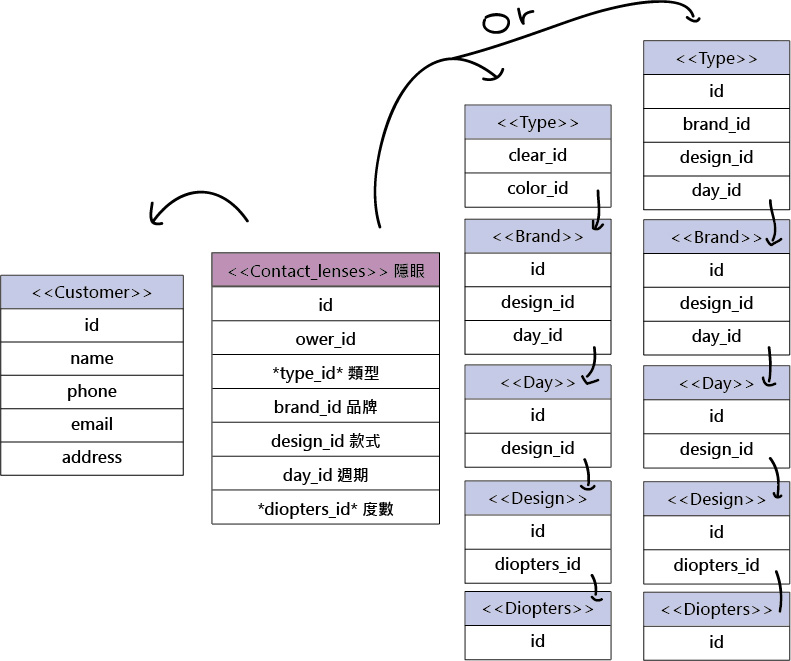
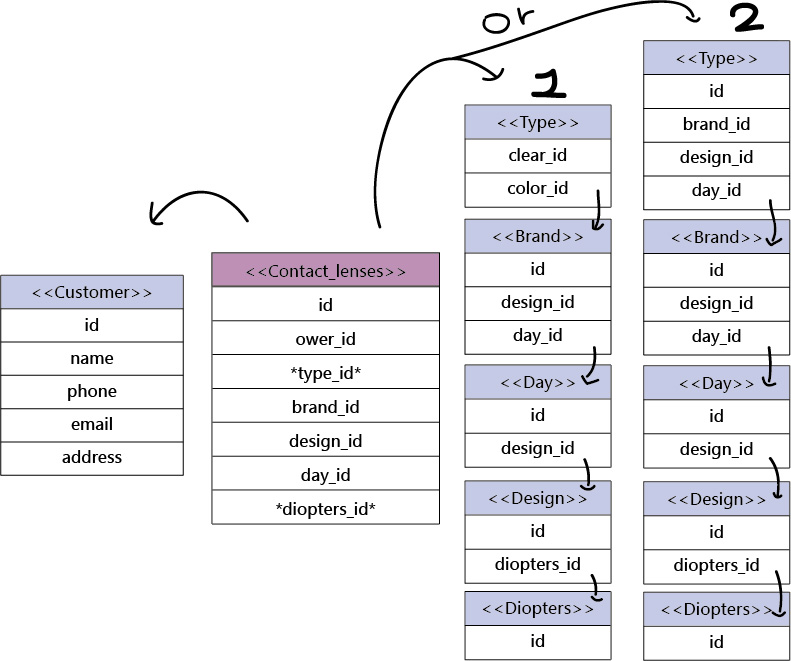
s

diff --git a/lenses.md b/lenses.md
@@ -9,20 +9,21 @@
         隱形眼鏡品牌<br>
         (Brand)<br>
            市面上常見品牌，以連鎖眼鏡行為基準<br>
+
         週期<br>
         (Day)<br>
           日拋、月拋、季拋、月拋<br>
+
         款式<br>
         (Design)<br>
 
-![](jpg/project1.jpg)
-![](jpg/project1-ch.jpg)
+
 + 附圖project1 -> 為大致上的雛形 <br>
     想加入:透明/彩色、度數、價格、含水率、鏡片類型(一般球面、散光、多焦/老花)<br>
     以及以點週邊相關:保養液、食鹽水、隱形眼鏡盒、隱形眼鏡用夾<br>
 
-![](jpg/project2.jpg)
-![](jpg/project2-ch.jpg)
+![](jpg/project1.jpg)
+
 + 附圖project2 -> 加入類型及度數<br>
     度數<br>
     (Diopters)<br>
@@ -31,5 +32,9 @@
     (Type)<br>
      透明片(clear_id) / 彩色片(color_id)<br>
 
-#### 3.專案名稱
-+    Lenses
+
+新增的度數及類型用**標註<br>
+![](jpg/project2.jpg)
+圖中標示1為type多分成了透明片clear_id跟彩色片color_id<br>
+(定義的英文和該詞實際英文不盡相同，因此標示中文)<br>
+![](jpg/project2-ch.jpg)
